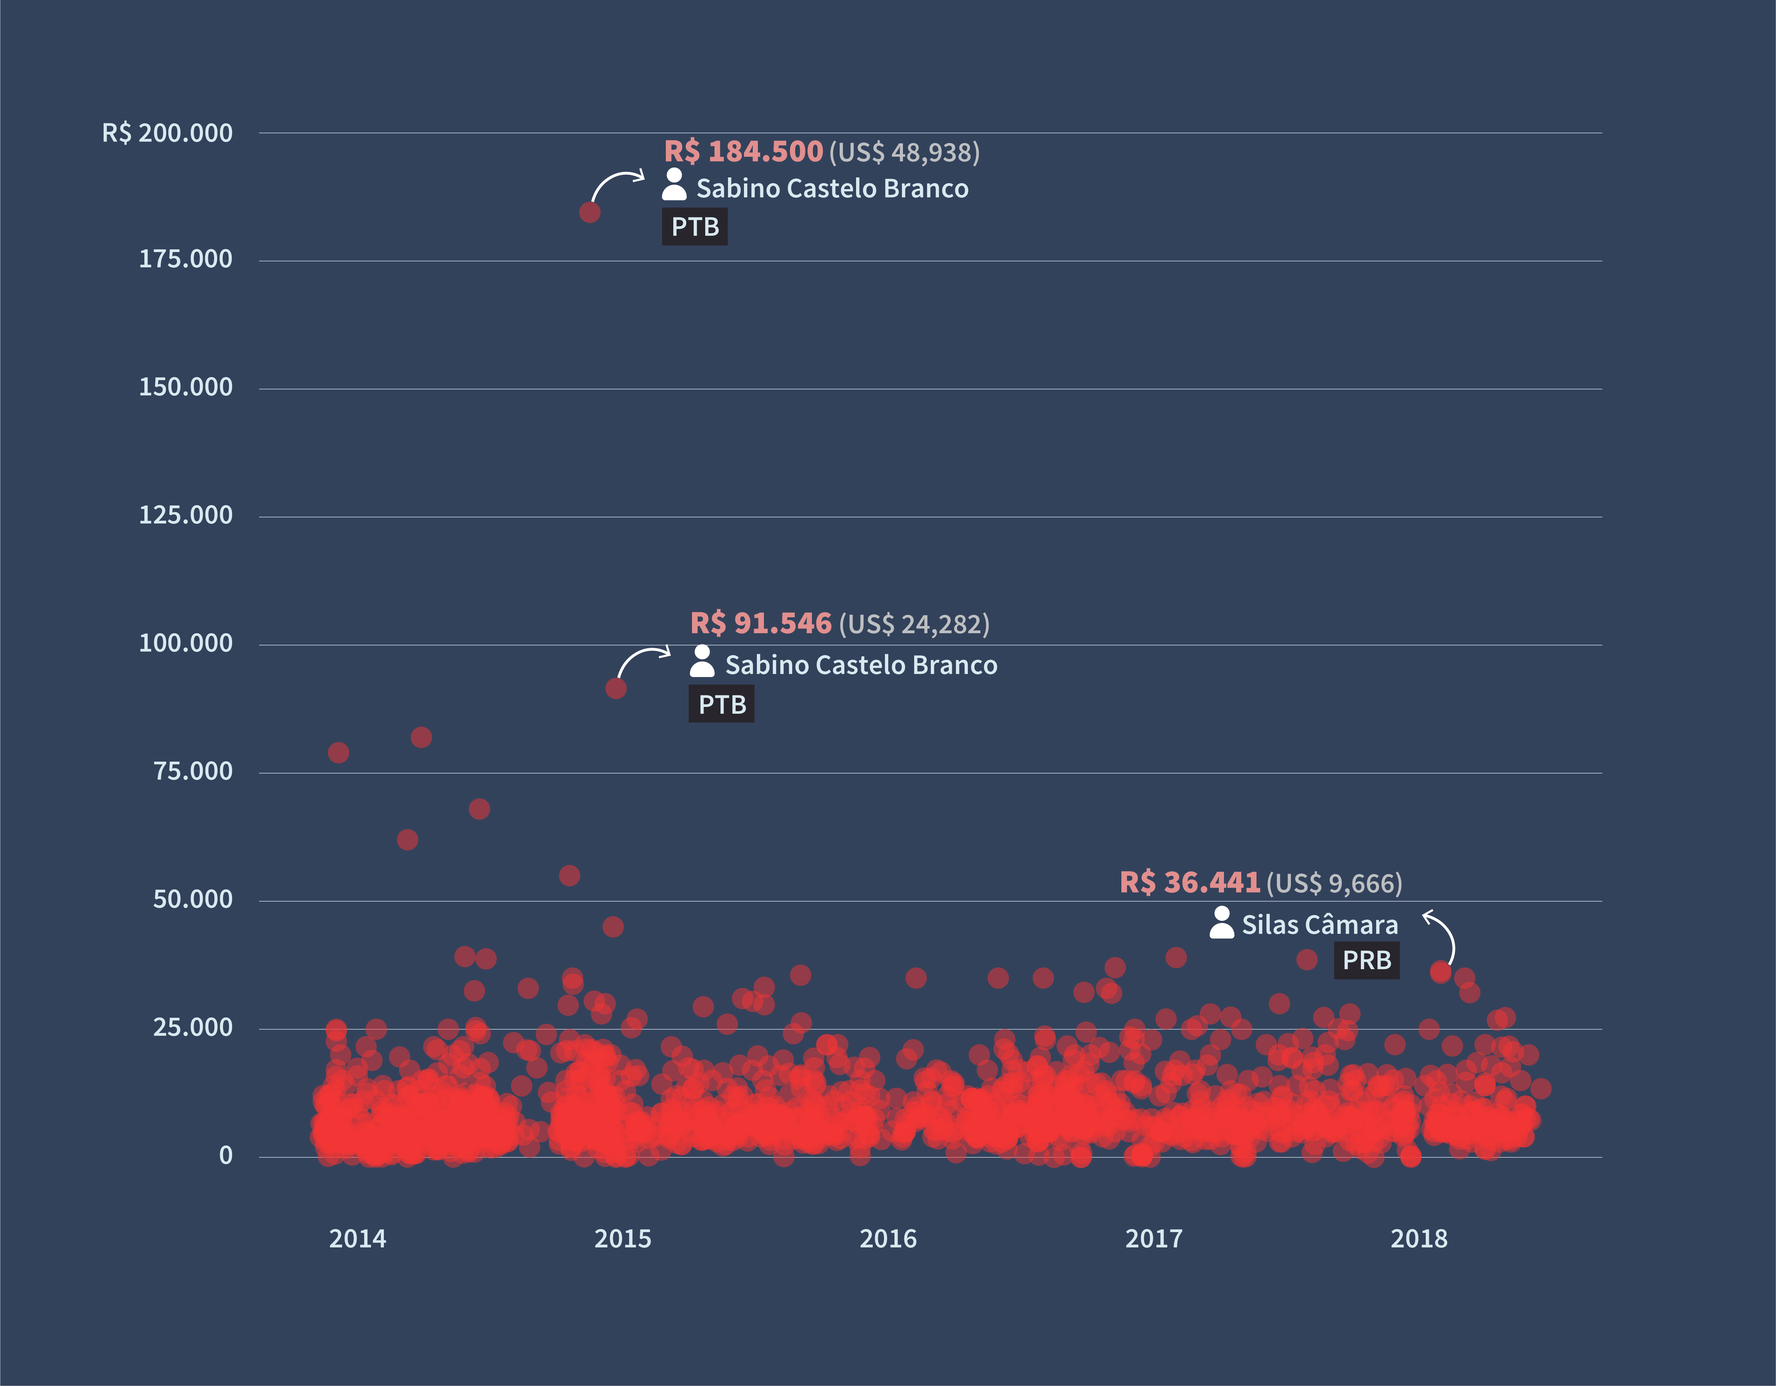
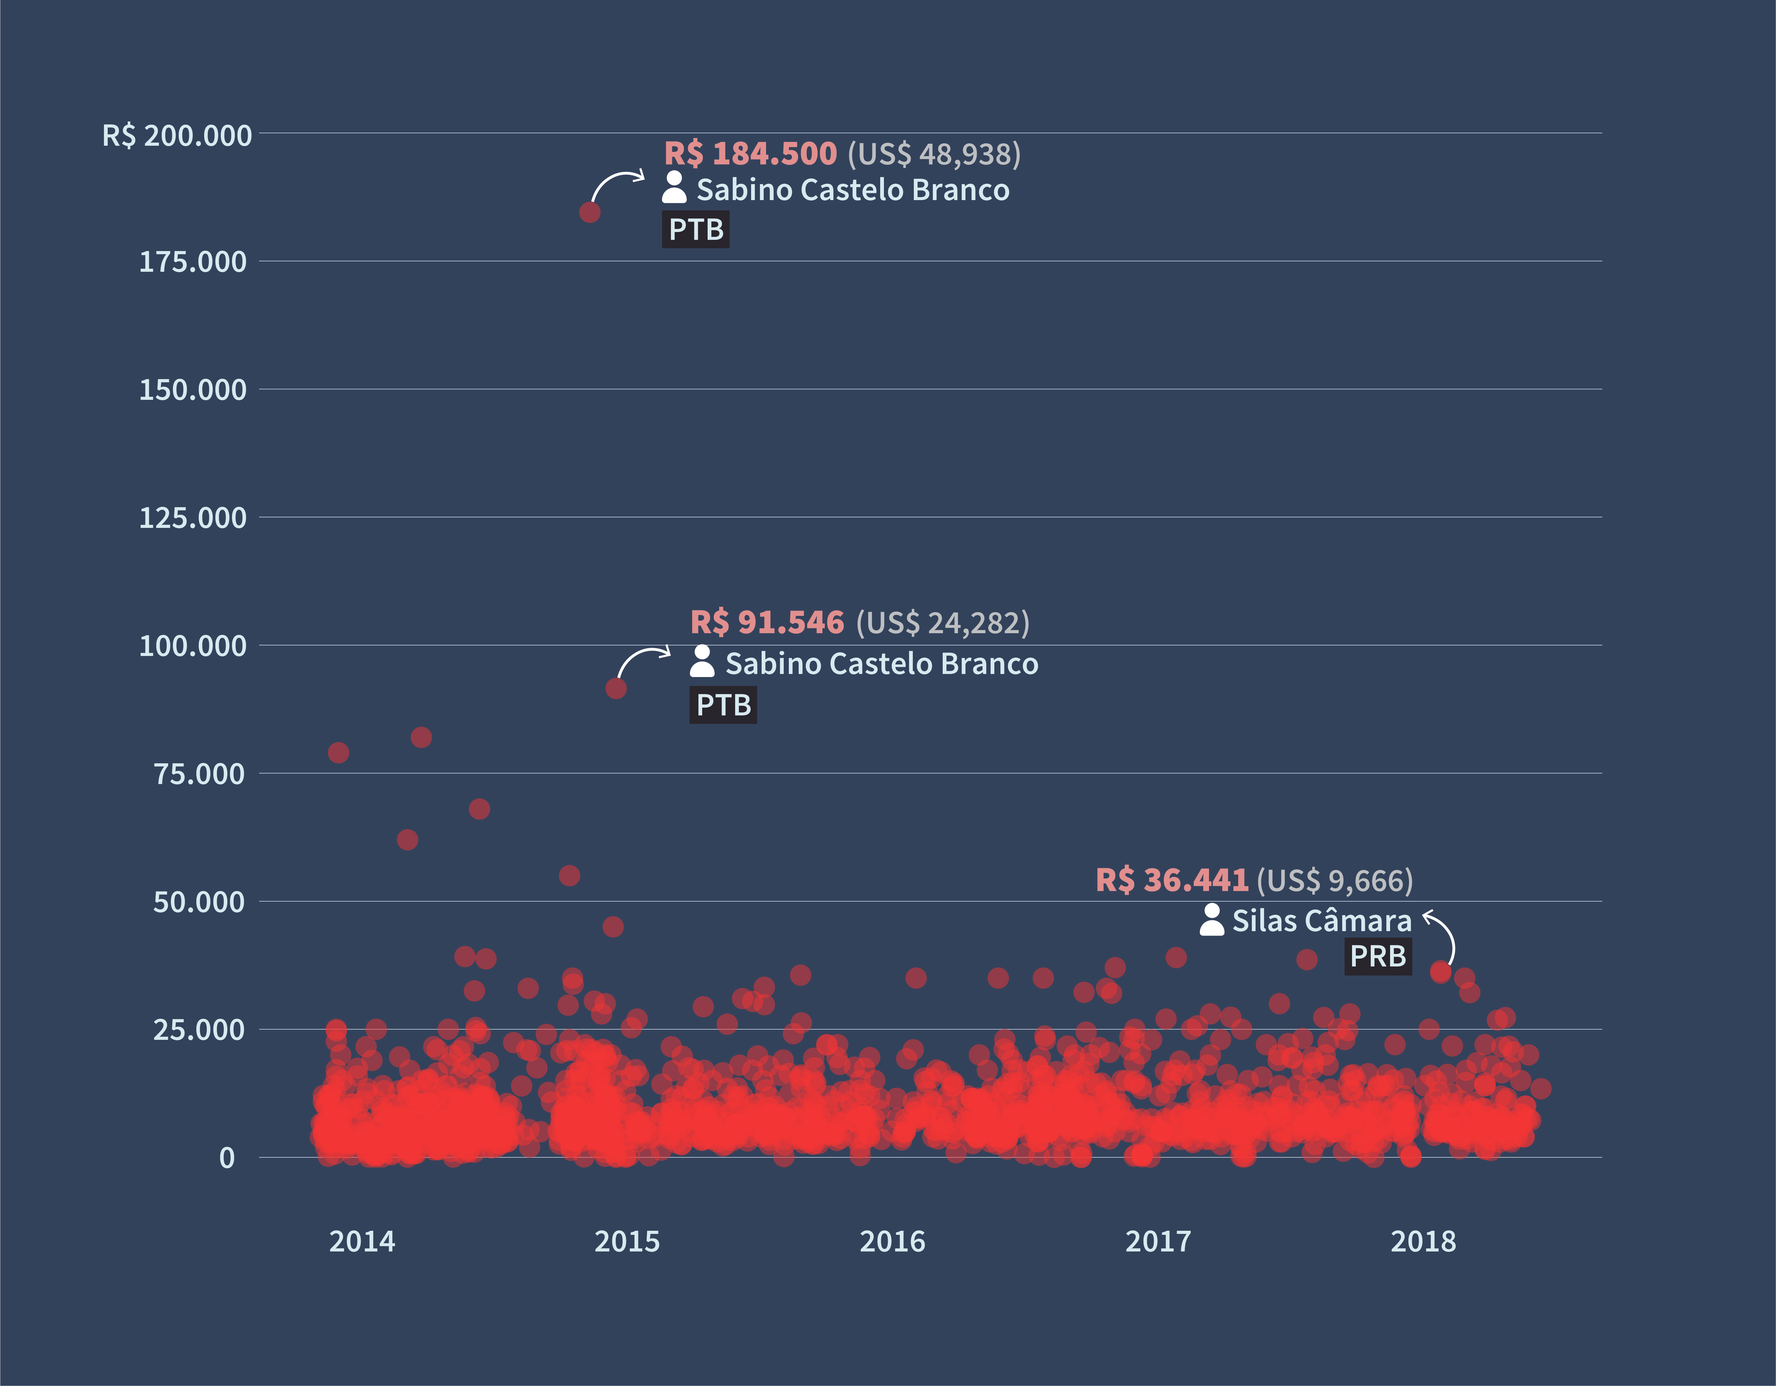
updated project

diff --git a/airplanes/index.html b/airplanes/index.html
@@ -11,9 +11,9 @@
     <link rel="stylesheet" href="style/app.css">
     
     <!-- google fonts: Roboto Condensed(super-font) and Lora(sub-font) -->
-    <link href="https://fonts.googleapis.com/css?family=Roboto+Condensed:300,400,700" rel="stylesheet">
-    <link href="https://fonts.googleapis.com/css?family=Lora:400,400i,700" rel="stylesheet"> 
-  
+    <link href="https://fonts.googleapis.com/css?family=Source+Sans+Pro:400,400i,600,600i,700,700i,900" rel="stylesheet">
+    <link href="https://fonts.googleapis.com/css?family=Open+Sans:400,400i,600,600i" rel="stylesheet">
+
       
       
     <title>Airplane rentals by the Brazilian Congress</title>
@@ -22,180 +22,108 @@
   <body class="dark-theme">
     <div class="container"><!-- start of the main container-->
         <div class="row justify-content-center"><!-- headline and intro -->
-            <div class="col-lg-10 ">
+            <div class="col-lg-10">
                 <p class="kicker super-font">POLITICS</p>
-                <h1 class="headline super-font">How much does the Brazilian Congress spend on airplane rentals?</h1>
+                <h1 class="headline super-font">Brazilian Congress spends millions on airplane rentals every year </h1>
                 <p class="credit super-font">BY Júlia Ledur</p>
                 <p class="date sub-font">Published July 20, 2018</p>
                 <p class="body-text sub-font">
-                Etiam porta sem malesuada magna mollis euismod. Aenean lacinia bibendum nulla sed consectetur. Nullam quis risus eget urna mollis ornare vel eu leo. Integer posuere erat a ante venenatis dapibus posuere velit aliquet. Fusce dapibus, tellus ac cursus commodo, tortor mauris condimentum nibh, ut fermentum massa justo sit amet risus. Duis mollis, est non commodo luctus, nisi erat porttitor ligula, eget lacinia odio sem nec elit. Nullam quis risus eget urna mollis ornare vel eu leo.
+                    Since 2013, representatives of the Brazilian Congress have spent more than 16 million reais on airplane rentals, which is equivalent to approximately 4 million dollars. The two most expensive transactions were made in 2015 by Sabino Castelo Branco, from the Brazilian Labour Party (PTB). One of them costed 184 thousand reais (48 thousand dollars), four times his total monthly budget.
+                    <br><br>
+                    Only in 2014, politicians rented 571 airplanes, the highest count of all years. The unusual number was due to campaining, since House of Representatives elections were held at the end of 2014. After that, the numbers stabilized in around 300 airplanes per year. So far, in 2018, 138 airplanes were rented. The data, acquired on the <a href="http://www2.camara.leg.br/transparencia/cota-para-exercicio-da-atividade-parlamentar/dados-abertos-cota-parlamentar">Congress open data portal</a>, is available from November of 2013 on.                     
                 </p>
             </div>
         </div>
+
         
-        
-        
-        
-<!-- start of three charts side by side -->
-        <!-- <div class="row justify-content-center"> <!-- labels/deszcriptions and three charts for mobile -->
-            <!-- <div class="col-md-4 "><!-- left -->
-                <!-- <p class="label super-font">Left chart label</p>
-                <p class="label-text super-font">Chart descriptiona liquet. Lorem ipsum dolor sit amet, consectetur adipisicing elit, sed do eiusmod tempor. </p>
-                <img class="image d-md-none" src="style/images/template_sizeA_0.png" alt="image description">
- -->
-            <!-- </div>
-            <div class="col-md-4 "><!-- center -->
-               <!--  <p class="label super-font">Center chart label</p>
-                <p class="label-text super-font">keep this about the same length</p>
-                <img class="image d-md-none" src="style/images/template_sizeA_2.png" alt="image description">
-            </div> --> 
-            <!-- <div class="col-md-4 "><!-- right -->
-               <!--  <p class="label super-font">Right chart label</p>
-                <p class="label-text super-font">Chart description   velit aliquet.</p>
-                <img class="image  d-md-none" src="style/images/template_sizeA_1.png" alt="image description">
-            </div> -->
-        
-       <!--  </div> --> 
-        <!-- these are the image files repeated fror desktop sizes -->
-        <!-- <div class="d-none d-md-block">
-            <div class="row justify-content-center "> 
-                <div class="col-md-4 "><!-- left -->
-                    <!-- <img class="image" src="style/images/template_sizeA_0.png" alt="image description">
-                </div>
-                <div class="col-md-4 "><!-- center -->
-                    <!-- <img class="image" src="style/images/template_sizeA_2.png" alt="image description">
-                </div>
-                <div class="col-md-4 "><!-- right -->
-                    <!-- <img class="image" src="style/images/template_sizeA_1.png" alt="image description">
-                </div>
+        <div class="row justify-content-center"> <!-- labels/deszcriptions and three charts for mobile -->
+            <div class="col-lg-10"><!-- left -->
+                <p class="label super-font"><span style="background-color: #933C48">Every airplane</span><br>rented by congress members</p>
+                <p class="label-text super-font">More than 17 hundred airplanes were rented since 2013. The highest number of transactions was in 2014.</p>
             </div>
-        </div> -->
-        
-<!-- this note is optional -->
-        <!-- <div class="row justify-content-center "> 
-            <div class="col">
-                <p class="note sub-font">NOTE: an optional note or source can go here. <br>
-                SOURCES: Sourcename here (left and right); Second sourcename (center)
-                </p>
+        </div>
+
+        <div class="row justify-content-center"> <!-- labels/deszcriptions and three charts for mobile -->
+            <div class="col-lg-12"><!-- left -->
+                <img class="image" src="style/images/airplanes-month.png" alt="image description">
             </div>
-        </div> -->
-<!-- end of three charts side by side -->
-        
+        </div>
+
+         <div class="row justify-content-center"> <!-- labels/deszcriptions and three charts for mobile -->
+            <div class="col-lg-10"><!-- left -->
+                <p class="note sub-font">
+                        SOURCE: <a href="https://brasil.io/dataset/gastos-deputados/cota_parlamentar?search=&numano=2018&nummes=&datemissao=&txnomeparlamentar=&sgpartido=&sguf=&txtdescricao=LOCAÇÃO+OU+FRETAMENTO+DE+AERONAVES&txtcnpjcpf=&txtfornecedor=&vlrliquido=">brasil.io</a> / <a href="http://www2.camara.leg.br/transparencia/cota-para-exercicio-da-atividade-parlamentar/dados-abertos-cota-parlamentar=">Portal da Câmara dos Deputados</a>
+                        </p>
+            </div>
+        </div>
 
         <div class="row justify-content-center"><!-- headline and intro -->
             <div class="col-lg-10 ">
-                <p class="subhead super-font">Subhead</p>
                 <p class="body-text sub-font">
-                Etiam porta sem malesuada magna mollis euismod. Aenean lacinia bibendum nulla sed consectetur. Nullam quis risus eget urna mollis ornare vel eu leo. Integer posuere erat a ante venenatis dapibus posuere velit aliquet. Fusce dapibus, tellus ac cursus commodo, tortor mauris condimentum nibh, ut fermentum massa justo sit amet risus. Duis mollis, est non commodo luctus, nisi erat porttitor ligula, eget lacinia odio sem nec elit. Nullam quis risus eget urna mollis ornare vel eu leo. <br>
-                sus eget urna mollis ornare vel eu leo. Integer posuere erat a ante venenatis dapibus posuere velit aliquet. Fusce dapibus, tellus ac cursus commodo, tortor mauris condimentum nibh, ut fermentum massa justo sit amet risus. Duis mollis, est non commodo luctus, nisi erat porttitor ligula, eget lacinia odio sem nec elit. Nullam quis risus eget urna mollis ornare vel e
-                </p>
-            </div>
-        </div>
-    
-<!-- start of one size B image -->
-        <div class="row justify-content-center"> <!-- labels/deszcriptions and three charts for mobile -->
-            <div class="col-md-13"><!-- left -->
-                <p class="label super-font">Chart label</p>
-                <p class="label-text super-font">Chart descriptiona liquet. Lorem ipsum dolor sit amet, consectetur adipisicing elit, sed do eiusmod tempor. </p>
-                <img class="image" src="style/images/airplanes-month.png" alt="image description">
-                <p class="note sub-font">NOTE: an optional note or source can go here. <br>
-                SOURCE: brasil.io / Portal da Câmara dos Deputados 
-                </p>
-            </div>
-        </div>
+                    Since then, 191 representatives rented 1,776 airplanes. This represents an average of 9 airplanes per politician. But some of them flew a lot more than 9 times. The champion is Átila Lins, whose name appears in 85 plane transactions throughout the course of six years. He has been a member of Congress since 1991. Átila’s most expensive airplane rental costed 32 thousand reais (8 thousand dollars). 
 
-
-<!-- another size B image -->
+                </div>
+            </div>
 
         <div class="row justify-content-center"> <!-- labels/deszcriptions and three charts for mobile -->
-            <div class="col-md-13"><!-- left -->
-                <p class="label super-font">Chart label</p>
-                <p class="label-text super-font">Chart descriptiona liquet. Lorem ipsum dolor sit amet, consectetur adipisicing elit, sed do eiusmod tempor. </p>
-                <img class="image" src="style/images/representatives.png" alt="image description">
-                <p class="note sub-font">NOTE: an optional note or source can go here. <br>
-                SOURCE: brasil.io / Portal da Câmara dos Deputados
+                <div class="col-lg-10"><!-- left -->
+                     <p class="label super-font"><span style="background-color: #933C48">Who</span> rented<br>the most airplanes</p>                
+                    <p class="label-text super-font">Átila Lins is by far the politician who rented the most aircrafts. In total, he spent 1.2 million reais.</p>
+                    <img class="image" src="style/images/representatives.png" alt="image description">
+                    <p class="note sub-font"><br>
+                        SOURCE: brasil.io / Portal da Câmara dos Deputados 
+                    </p>
+                </div>
+            </div>
+
+
+            <div class="row justify-content-center"><!-- headline and intro -->
+                <div class="col-lg-10">
+                    <p class="body-text sub-font">
+                    The third on the rank, Francisco Chapadinha, from the Order, Democracy and Ethics Party (PODE), spent 163 thousand reais only last year. One of his flights, from Santarém to Monte Alegre, a 100-kilometer trip, costed 6 thousand reais.<br><br>  
+
+                    Also last year, congressman Giacobo flew from Foz do Iguaçu to Cascavel and then Brasília in a private airplane that was priced at 39 thousand reais. The same route on a airliner would have costed around one thousand reais.<br><br>
+                        
+                    Considering the current term of office (from February of 2015 to January of 2019), the Progressive Party (PP) has spent the most (2 million reais), followed by Brazilian Social Democracy Party (PSDB) and Brazilian Labour Party (PTB), Átila Lins’ party. 
+                        
                 </p>
             </div>
-        </div>
-<!-- end of one size B image -->
+       </div>
 
-
-        <div class="row justify-content-center"><!-- headline and intro -->
-            <div class="col-lg-10">
-                <p class="body-text sub-font">
-                Etiam porta sem malesuada magna mollis euismod. Aenean lacinia bibendum nulla sed consectetur. Nullam quis risus eget urna mollis ornare vel eu leo. Integer posuere erat a ante venenatis dapibus posuere velit aliquet. Fusce dapibus, tellus ac cursus commodo,<br>
-                tortor mauris condimentum nibh, ut fermentum massa justo sit amet risus. Duis mollis, est non commodo luctus, nisi erat porttitor ligula, eget lacinia odio sem nec elit. Nullam quis risus eget urna mollis ornare vel eu leo.
-                </p>
-            </div>
-        </div>
-
-
-<!-- another size B image -->
-    
         <div class="row justify-content-center"> <!-- labels/deszcriptions and three charts for mobile -->
-            <div class="col-md-13"><!-- left -->
-                <p class="label super-font">Chart label</p>
+            <div class="col-lg-10"><!-- left -->
+                <p class="label super-font"><span style="background-color: #933C48">How much</span><br>each party spent</p>                 
                 <p class="label-text super-font">Chart descriptiona liquet. Lorem ipsum dolor sit amet, consectetur adipisicing elit, sed do eiusmod tempor. </p>
                 <img class="image" src="style/images/airplanes-parties.png" alt="image description">
-                <p class="note sub-font">NOTE: an optional note or source can go here. <br>
+                <p class="note sub-font">
                 SOURCE: brasil.io / Portal da Câmara dos Deputados
                 </p>
             </div>
         </div>
 
-
-<!-- <!-- start of one size C image -->
-
-
-        <!-- <div class="row justify-content-center"> 
-            <div class="col-md-10">
-                <p class="label super-font">Chart label</p>
-                <p class="label-text super-font">Labels for chart should usually go above the visualization.</p>
-            </div>
-            <img class="image" src="style/images/teste2.png" alt="image description" width=60%>
-        </div> -->
-        
         <div class="row justify-content-center"><!-- headline and intro -->
             <div class="col-lg-10">
+                <p class="subhead super-font">Legislation</p>
                 <p class="body-text sub-font">
-                Etiam porta sem malesuada magna mollis euismod. Aenean lacinia bibendum nulla sed consectetur. Nullam quis risus eget urna mollis ornare vel eu leo. Integer posuere erat a ante venenatis dapibus posuere velit aliquet. Fusce dapibus, tellus ac cursus commodo,<br>
-                tortor mauris condimentum nibh, ut fermentum massa justo sit amet risus. Duis mollis, est non commodo luctus, nisi erat porttitor ligula, eget lacinia odio sem nec elit. Nullam quis risus eget urna mollis ornare vel eu leo.
+                    Every House representative is entitled to a monthly budget, that varies according to the state where they were elected. The quota can range from 30 to 45 thousand reais, depending on the number of representatives per state.<br><br>
+
+                    According to the Brazilian legislation, representatives are allowed to rent airplanes with government money. However, the law does not specify the exact amount that can be spent on aircraft transportation. After the rental, representatives have the money reimbursed as long as they present a receipt along with a description of the flight date, origin and destination.
+                    <br><br><br><br>
                 </p>
             </div>
         </div>
-        
+
+
         
     
-        <div class="row justify-content-center"> 
+        <!-- <div class="row justify-content-center"> 
             <div class="col-12">
                 <img class="image" src="style/images/swimming.jpg" alt="image description">
             </div>
             <div class="col-md-10">
                 <p class="caption sub-font">Photo captions are typically below the image and end with the photographer's credit (Firstname Lastname/AGENCYNAME) Boys swim at a river mouth between the river Drim and Ohrid lake in the city of Struga, Macedonia (Ognen Teofilovski/REUTERS)</p>
             </div>
-        </div>
-        
-        <div class="row justify-content-center"><!-- headline and intro -->
-        <div class="col-lg-10 ">
-            <p class="body-text sub-font">
-            Etiam porta sem malesuada magna mollis euismod. Aenean lacinia bibendum nulla sed consectetur. Nullam quis risus eget urna mollis ornare vel eu leo. Integer posuere erat a ante venenatis dapibus posuere velit aliquet. Fusce dapibus, tellus ac cursus commodo,<br>
-            tortor mauris condimentum nibh, ut fermentum massa justo sit amet risus. Duis mollis, est non commodo luctus, nisi erat porttitor ligula, eget lacinia odio sem nec elit. Nullam quis risus eget urna mollis ornare vel eu leo.
-            </p>
-        </div>
-       <!--  <div class="row justify-content-center no-gutters"> 
-            <div class="col-md-5">
-                <img class="image" src="style/images/pic_Size_A.jpeg" alt="image description">
-                <p class="caption sub-font">Photo captions are typically below the image and end with the photographer's credit (Firstname Lastname/AGENCYNAME)</p>
-            </div>
         </div> -->
-    
-            
-            
-    
-        
-        
-        
-        
         
       </div><!-- end of the main container-->
    

diff --git a/airplanes/style/app.css b/airplanes/style/app.css
@@ -2,8 +2,12 @@
 
 body {
     padding-top:60px;
-    margin: auto;
-}
+    padding-bottom:60px;
+
+    background: url("https://github.com/julialedur/julialedur.github.io/blob/master/airplanes/style/images/bg-final2.png?raw=true");
+    /* background-repeat: repeat-x;
+    background-repeat: repeat-y; */
+    }
 
 
 /* choose a light or dark theme to add to the body tag. */
@@ -12,8 +16,8 @@ body {
     color: #d8e9f0;   
 }
 .light-theme {
-    background-color: white;
-    color: black;    
+    background-color: #EDF2F6;
+    color: #000000;    
 }
 
 .container {
@@ -26,6 +30,39 @@ body {
     width: 100%;
 }
 
+.a {
+    text-decoration: none;
+    border-bottom: 0.1rem solid currentColor;
+    color: inherit;
+    -webkit-transition: color 0.4s, text-shadow 0.4s;
+    transition: color 0.4s, text-shadow 0.4s;
+  }
+
+.a hover {
+    color: #FCCEAA;
+    text-shadow: 0 0 0.8rem #FF7770;
+  }
+
+::selection {
+    text-shadow: 0 0 0.8rem #EF8B8B;
+    background: rgba(255, 119, 112, 0.1);
+    color: rgb(252, 185, 170);
+  }
+
+/* unvisited link */
+a:link {
+    color: #FCCEAA;
+}
+
+/* visited link */
+a:visited {
+    color: #F03535;
+}
+
+/* mouse over link */
+a:hover {
+    color: #FF7770;
+}
 
 
 /*
@@ -56,16 +93,18 @@ sub-font
 
 .headline {
     font-size: 3.5rem;
-    line-height: 0.9;
+    line-height: 1.0;
     margin-bottom: 0.25rem;
     margin-top: 1rem;
     font-weight: 700;
+    letter-spacing: -1.5px;
 }
 
 .body-text {
-    font-size: 1.25rem;
+    font-size: 1rem;
     line-height: 1.6;
     margin-top: 1.5rem;
+    margin-bottom: 1.5rem;
 
 }
 
@@ -99,13 +138,14 @@ sub-font
     line-height: 0.9;
     margin-bottom: 0.5rem;
     margin-top: 1.5rem;
-    font-weight: 700;
+    font-weight: 800;
+    letter-spacing: -1.5px;
 }
 
 .label {
-    font-size: 1.25rem;
+    font-size: 1.8rem;
     line-height: 1.25;
-    margin-top: 2rem;
+    margin-top: 2.5rem;
     margin-bottom: 0.5rem;
     font-weight: 700;
 }
@@ -133,7 +173,9 @@ sub-font
 }
 
 
-
+.image {
+    margin-top: 40px;
+}
 
 
 
